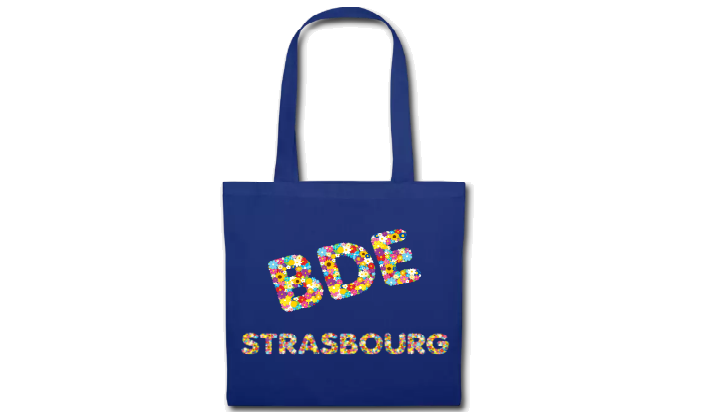
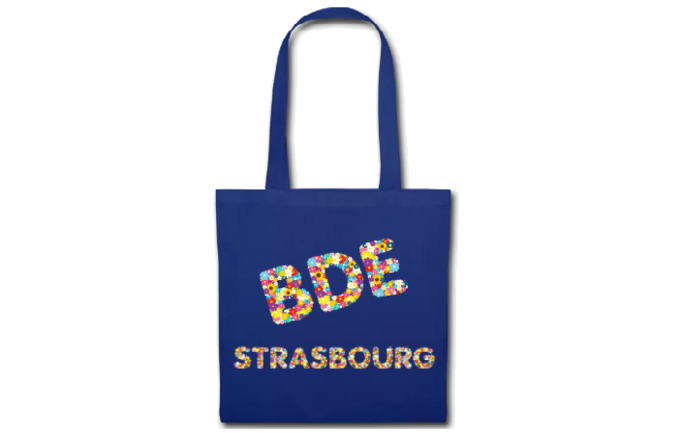
shop correction

diff --git a/public/css/boutique.css b/public/css/boutique.css
@@ -1,4 +1,4 @@
-hr
+.hrshop
 {
   padding:2px;
   background-color:#318CE7;
@@ -28,7 +28,7 @@ hr
 	color:#000000;
 	border-radius:0px;
 
-	width:60%;
+	width:100%;
   min-width: 50px;  
   max-width: 300px;
   border:1px solid #ccc;
@@ -179,7 +179,7 @@ display: block;
 
 .addarticles-btn {
  
-  width: 13.3%;
+
   padding: 8px;
   background: #318CE7;
   color: white;
@@ -188,6 +188,8 @@ display: block;
   border-color: #dddddd;
   border-left: none; /* Prevent double borders */
   cursor: pointer;
+  margin-top:5px;
+  width:30%;
 }
 
 .tri {
@@ -202,8 +204,8 @@ display: block;
 
 .imgshop{
 
-  width: 100%;
-  height: auto;
+  max-width: 100%;
+ 
 
 }
 
@@ -218,6 +220,14 @@ display: block;
     width: 100%;
   }
 }
+
+.rezize-div{
+  
+  margin: auto;
+  
+}
+
+
 
 
 

diff --git a/resources/views/boutique.blade.php b/resources/views/boutique.blade.php
@@ -15,6 +15,7 @@
 
     <link href="{{ asset('css/bootstrap.css') }}" rel="stylesheet">
     <link href="{{ asset('css/boutique.css') }}" rel="stylesheet">
+    <link href="{{ asset('css/style.css') }}" rel="stylesheet">
     <link rel="stylesheet" href="https://www.w3schools.com/w3css/4/w3.css">
     <link href="{{ asset('fontawesome/css/all.min.css') }}" rel="stylesheet">
     <link href="{{ asset('fontawesome/css/style.css') }}" rel="stylesheet">
@@ -28,20 +29,21 @@
 <body>
 
 
-   <!-- Nav bar -->
+ 
 
  <!-- Barre de navigation -->
+
 
  <!-- Premier container-->
 		@include('components/articlecard')
  		<div class="container-fluid text-center"> 
   			<div class="row">
-				<div class="col-lg-1 col-md-2 col-sm-3 bg-dark"></div>
+				<div class="col-lg-1 col-md-2 col-sm-3 "></div>
 				
     			<div class="col-lg-10 col-md-20 col-sm-30">
-      				<hr>
+      				<hr class="hrshop">
       				<h2>Bienvenue sur notre boutique</h2>
-      				<hr>
+      				<hr class="hrshop">
       				<br>
 
 	      			<div>
@@ -132,26 +134,27 @@
              		</div>
            		</div>
 
-           		<br><hr>
+           		<br><hr class="hrshop">
 
            		<div class="col-lg-12 col-md-24 col-sm-36">        
              		<h4> Nos meilleures ventes</h4>
 				</div>
 				   
-           		<hr><br>
+           		<hr class="hrshop"><br>
 
     <!-- Trois articles les plus vendus -->
 
            		<div class="row">
             		@foreach ($firsts as $first)
-						<div class="card-deck col-lg-4 col-md-6 mb-4">
+						<div class="card-deck col-lg-4 col-md-6 mb-4 rezize-div">
 							@php loadcard($first, false) @endphp
 						</div>
 					@endforeach
           		</div>
         	</div>
 
-        	<div class="col-lg-1 col-md-2 col-sm-3 bg-dark"></div>
+        	<div class="col-lg-1 col-md-2 col-sm-3 ">  
+          </div>
 
       	</div>
 	</div>
@@ -161,14 +164,15 @@
 
     <div class="container-fluid text-center"> 
      	<div class="row">
-      		<div class="col-lg-1 col-md-2 col-sm-3 bg-dark"></div>
+      		<div class="col-lg-1 col-md-2 col-sm-3 "></div>
 
       		<div class="col-lg-10 col-md-20 col-sm-30 ">
+            <hr class="hrshop">
         		<div class="container-fluid text-left">
-          			<hr>
+          		
           			<h4> Tous nos produits </h4>
         		</div>
-        		<hr>
+        		<hr class="hrshop">
 
     <!-- Barre du Filtre par prix et categories -->
 
@@ -210,8 +214,8 @@
           					$cate = strtolower($cate);
           				@endphp
 				
-						<div class="card-deck col-lg-4 col-md-6 mb-4 article {{ $cate }}">
-							@php loadcard($product, true); @endphp
+						<div class="card-deck col-lg-4 col-md-6 mb-4 article {{ $cate }} rezize-div">
+  					@php loadcard($product, true); @endphp
 						</div>
 
                 		<div class="w3-container" style="padding: 0;">
@@ -264,40 +268,12 @@
       			</div>
     		</div>
 
-    		<div class="col-lg-1 col-md-2 col-sm-3 bg-dark"></div>
+    		<div class="col-lg-1 col-md-2 col-sm-3 "></div>
 
   		</div>
 	</div>
 
-	<div class="w3-container">
-  		<div id="addarcticle" class="w3-modal">
-    		<div class="w3-modal-content w3-card-4 w3-animate-zoom" style="max-width:3000px">
-      			<div class="w3-center"><br>
-        			<span onclick="document.getElementById('addarcticle').style.display='none'" class="w3-button w3-xlarge w3-hover-red w3-display-topright" title="Close Modal">&times;</span>
-      			</div>
 
-      			<form class="w3-container" action="/article" method="post" enctype="multipart/form-data" >
-                	@csrf
-        			<div class="w3-section">
-          				<label><b>Nom de l'article</b></label>
-          				<input class="w3-input w3-border w3-margin-bottom" type="hidden" name="id_product" value={{ $product->id }}>
-
-          				<label><b>Description de l'article</b></label>
-          				<input class="w3-input w3-border w3-margin-bottom" type="text" placeholder="" name="description" required>
-									
-          				<label><b>Prix de l'article</b></label>
-          				<input class="w3-input w3-border w3-margin-bottom" type="number" placeholder="" name="price" required>
-									
-          				<label><b>Nombre d'articles en stock</b></label>
-          				<input class="w3-input w3-border w3-margin-bottom" type="number" placeholder="" name="stock" required>
-          				<input type="hidden" name="MAX_FILE_SIZE" value="100000">
-									
-          				<button class="ok-btn" type="submit">Confirmer</button>
-        			</div>
-      			</form>
-    		</div>
-  		</div>
-	</div>
 </body>
 
 <script>

diff --git a/app/Http/Controllers/CommandController.php b/app/Http/Controllers/CommandController.php
@@ -122,7 +122,6 @@
 
             return response('true', 200);
         }
-<<<<<<< HEAD
 
 
         public function validateCommand(){
@@ -134,70 +133,4 @@
             unset($_SESSION['id_cart']);
             return;
         }
-=======
-			
-		public function validateCommand(){
-		
-			date_default_timezone_set('Etc/UTC');
-			require '../vendor/autoload.php';
-			//Create a new PHPMailer instance
-			$mail = new PHPMailer;
-			//Tell PHPMailer to use SMTP
-			$mail->isSMTP();
-			//Enable SMTP debugging
-			// 0 = off (for production use)
-			// 1 = client messages
-			// 2 = client and server messages
-			$mail->SMTPDebug = 2;
-			//Ask for HTML-friendly debug output
-			$mail->Debugoutput = 'html';
-			//Set the hostname of the mail server
-			$mail->Host = 'smtp.gmail.com';
-			// use
-			// $mail->Host = gethostbyname('smtp.gmail.com');
-			// if your network does not support SMTP over IPv6
-			//Set the SMTP port number - 587 for authenticated TLS, a.k.a. RFC4409 SMTP submission
-			$mail->Port = 587;
-			//Set the encryption system to use - ssl (deprecated) or tls
-			$mail->SMTPSecure = 'tls';
-			//Whether to use SMTP authentication
-			$mail->SMTPAuth = true;
-			//Username to use for SMTP authentication - use full email address for gmail
-			$mail->Username = "noreply.bde@gmail.com";
-			//Password to use for SMTP authentication
-			$mail->Password = "Jesuiskillian";
-			//Set who the message is to be sent from
-			$mail->setFrom('noreply.bde@gmail.com', 'Finalisation commande');
-			//Set an alternative reply-to address
-			//Set who the message is to be sent to
-			$mail->addAddress($_SESSION['id']);
-			//Set the subject line
-			$mail->Subject = 'Finalisation commande';
-			//Read an HTML message body from an external file, convert referenced images to embedded,
-			//convert HTML into a basic plain-text alternative body
-			//Replace the plain text body with one created manually
-			$mail->Body = 'Nous avons bien recu votre commande, nous allons planifier un rendez-vous afin de proceder au payement et a l\'echange';
-			$mail->SMTPOptions = array(
-				'ssl' => array(
-					'verify_peer' => false,
-					'verify_peer_name' => false,
-					'allow_self_signed' => true
-				)
-			);
-			//Attach an image file
-			//send the message, check for errors
-			if (!$mail->send()) {
-			echo "Mailer Error: " . $mail->ErrorInfo;
-			} else {
-			echo "Message sent!";
-
-				return redirect('/idee');   
-
-
-			}
-		
-		
-		}
-	
->>>>>>> 3c3d98c69d9846bcdf603b425e323eaa051b8d4c
     }

diff --git a/resources/views/footer.blade.php b/resources/views/footer.blade.php
@@ -2,8 +2,8 @@
 
 	
     <!-- Bootstrap core CSS -->
- <link href="{{ asset('css/bootstrap.css') }}" rel="stylesheet">
-  <link href="{{ asset('css/contact.css') }}" rel="stylesheet">
+
+<link href="{{ asset('css/contact.css') }}" rel="stylesheet">
  <link href="{{ asset('fontawesome/css/all.min.css') }}" rel="stylesheet">
  
 

diff --git a/resources/views/nav.blade.php b/resources/views/nav.blade.php
@@ -1,5 +1,4 @@
 
-
     <nav class="navbar navbar-expand-md navbar-dark bg-dark">
        <img src="https://s3-eu-west-1.amazonaws.com/assets.atout-on-line.com/images/ingenieur/Logos_Ecoles/2018_2020/cesi_300.jpg" width="20%/9" height="50%/9" class ="logo">
 
